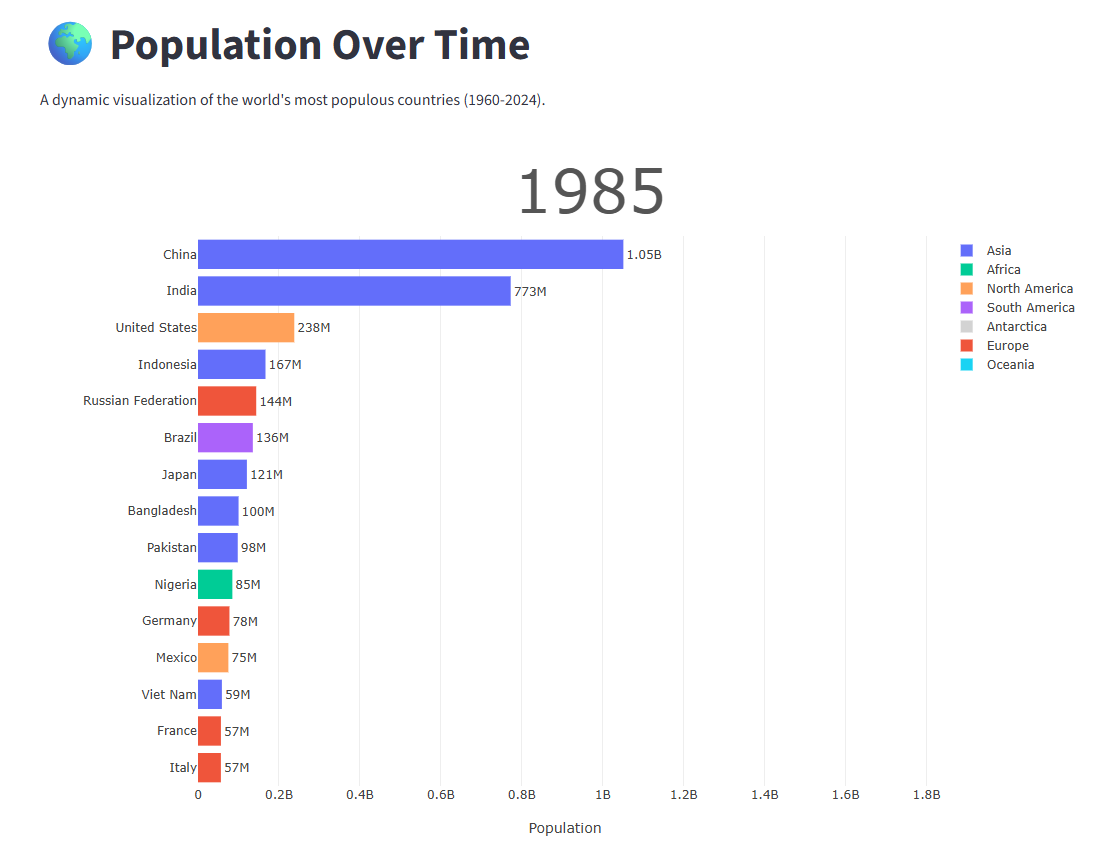
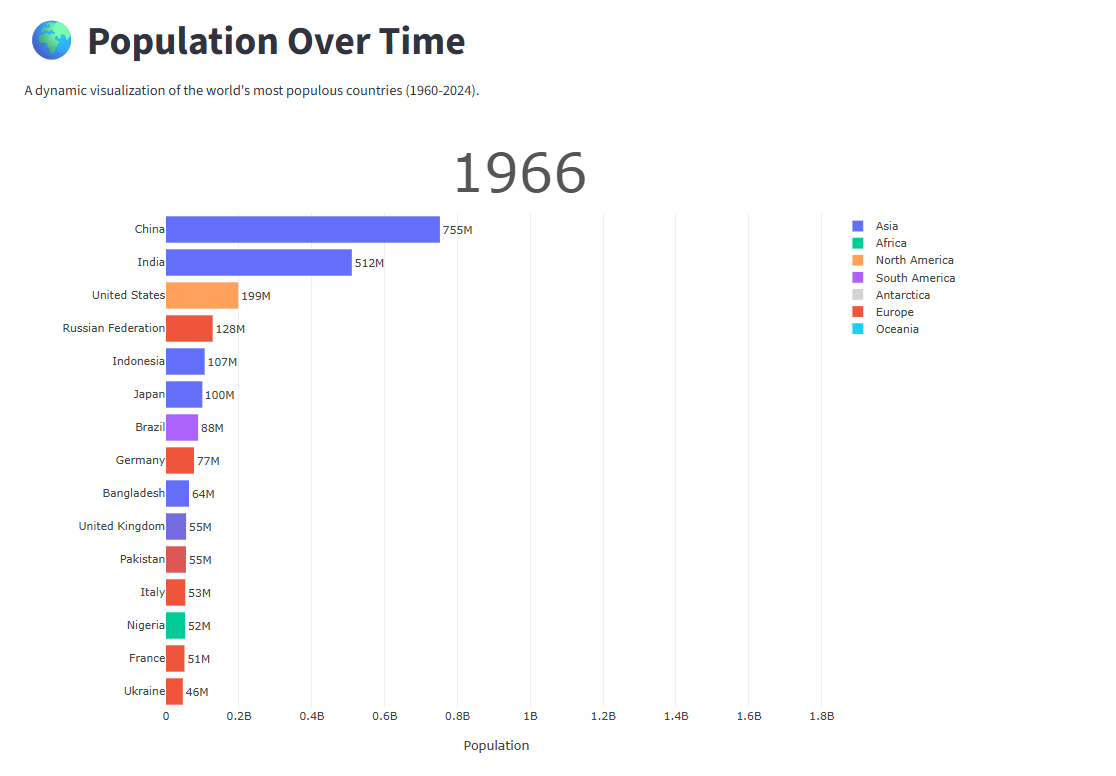
feat: add initial Streamlit portfolio application featuring home, skills, and projects sections, including an ASX stock monitor.

diff --git a/streamlit/main.py b/streamlit/main.py
@@ -2,6 +2,7 @@ import streamlit as st
 import pandas as pd
 import json
 import os
+from PIL import Image, ImageOps
 from projects import asx_monitor
 from projects import flashcards
 from projects import population
@@ -12,6 +13,24 @@ def load_data(filename):
     filepath = os.path.join(current_dir, "data", filename)
     with open(filepath, "r") as f:
         return json.load(f)
+
+def load_and_resize_image(image_path, size=(550, 250)):
+    """Loads and crops an image to a fixed size using PIL."""
+    # If it's a URL, we can't easily resize with PIL without downloading.
+    # For now, just return the URL if it's remote (st.image handles URLs).
+    if image_path.startswith("http"):
+        return image_path
+        
+    try:
+        img = Image.open(image_path)
+        # pad will resize the image to fit within the size preserving aspect ratio
+        # and then pad the rest with the specified color.
+        # using white to match the card background.
+        img = ImageOps.pad(img, size, method=Image.Resampling.LANCZOS, color='white', centering=(0.5, 0.5)) 
+        return img
+    except Exception as e:
+        st.error(f"Error processing image {image_path}: {e}")
+        return image_path
 
 # --- Load Data ---
 profile = load_data("profile.json")
@@ -349,7 +368,9 @@ elif page == "Projects":
                     
                     # Display full image (no cropping)
                     try:
-                        st.image(image_path, use_container_width=True)
+                        # Resize image to fixed dimensions
+                        img_to_show = load_and_resize_image(image_path)
+                        st.image(img_to_show, use_container_width=True)
                     except:
                         st.error(f"Could not load image: {project['image']}")
 
